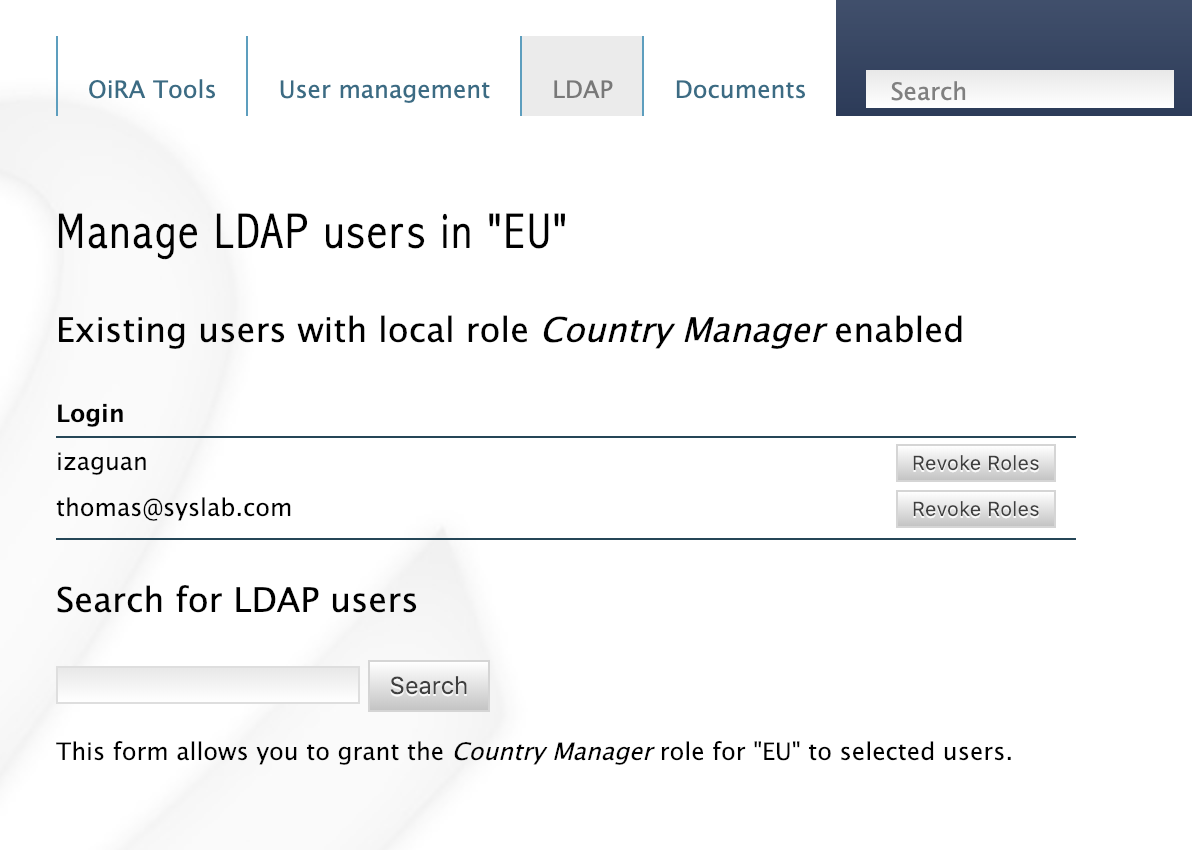
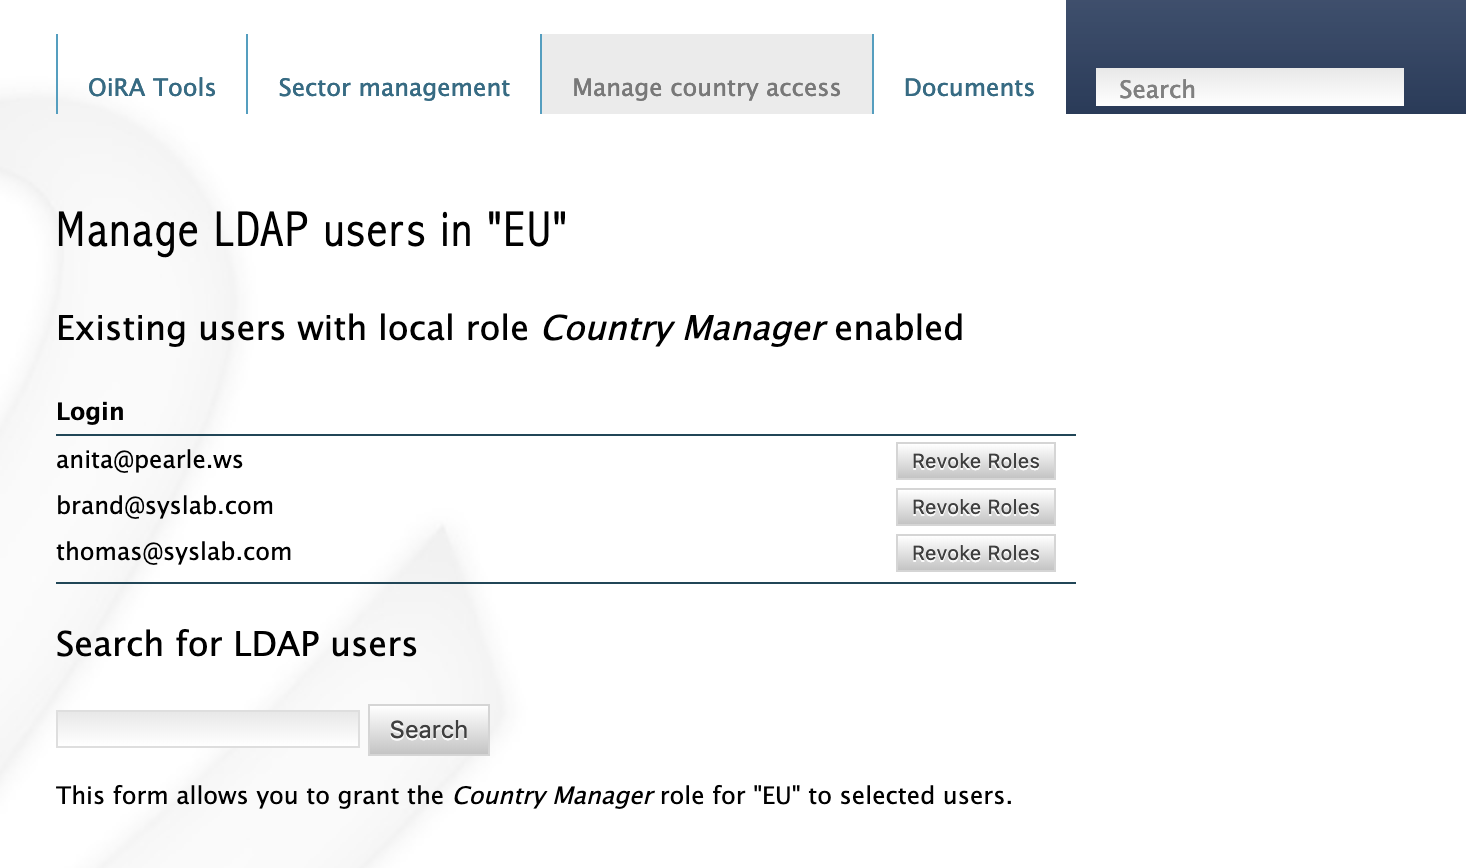
updated guide to reflect new way of handling LDAP

diff --git a/docs/manuals/editor2.rst b/docs/manuals/editor2.rst
@@ -42,7 +42,7 @@ There are two types of Login Accounts in OiRA:
     * A sectoral account: for countries/organisations for which the country
       manager does not apply, EU-OSHA will create a sectoral account
 
-In both cases, EU-OSHA needs to create the account first, if it is not already present because it is used for other OSHA sites such as the OiRA community site or the OSHWiki. Once your account has been created you will receive an email, at the provided address, containing the login information. Please note: Both your user name and password are case sensitive!
+In both cases, EU-OSHA needs to create the account first, if it is not already present, because it is used for other OSHA sites such as the OiRA community site or the OSHWiki. Once your account has been created, you will receive an email at the provided address, containing the login information. Please note: Both your user name and password are case sensitive!
 
 Country managers can create sectors by clicking the tab “User management” and then *Add new sector*.
 
@@ -53,10 +53,10 @@ When creating a new sector, be aware that the name of the sector will show up in
     :height: 250 px
     :alt: A country manager can create sector.
 
-    *A country manager can create sector*
+    *A country manager can create a sector via the “Add new sector” button. Existing sectors are listed below.*
 
 
-In order to promote a user to a sector manager, the country manager needs to enter this sector, and then use the “LDAP“ tab. There, the country manager can search for the target user and use the *Grant roles* button.
+In order to promote a user to a sector manager, the country manager needs to enter this sector, and then use the “Manage country access“ tab. There, the country manager can search for the target user and use the *Grant roles* button. On the “Sector management” tab, there is also a shortcut (button) for “Manage country access“ for every sector.
 For any current user who has the Sector Manager role, the *Revoke roles* button can be used to remove this role again.
 
 
@@ -67,7 +67,7 @@ For any current user who has the Sector Manager role, the *Revoke roles* button 
 
     *A country manager can grant and revoke the Sector Manager role*
 
-In similar fashion, any user can be made a Country Manager via the “LDAP” tab on a country. This action can only be performed by an OiRA administrator.
+In similar fashion, any user can be made a Country Manager via the “Manage country access” tab on a country. This action can only be performed by an OiRA administrator.
 
 .. figure:: images/editor/editor_assign_country.png
     :align: center
